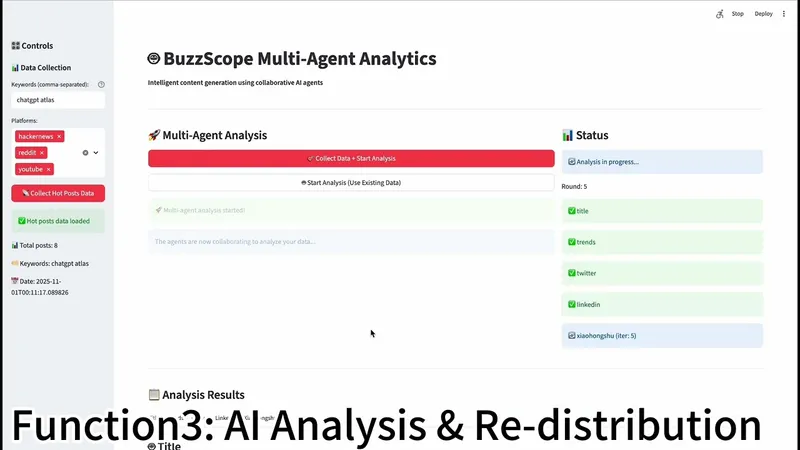
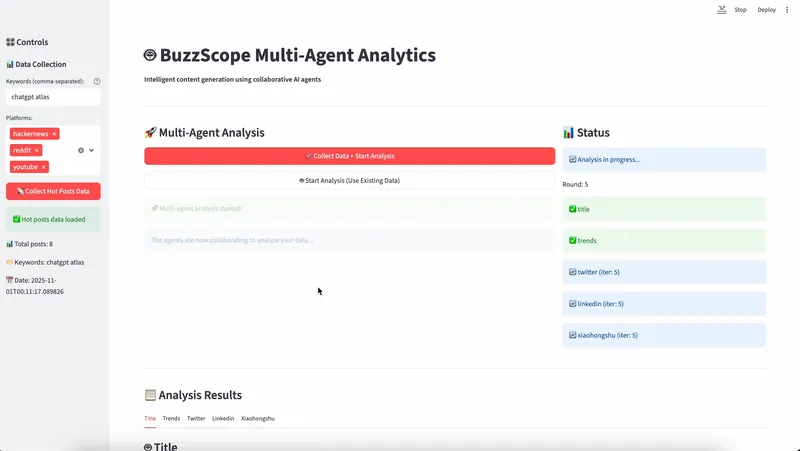
Update project screenshots and email address
- Replace BuzzScope screenshot with actual app UI from repo
- Replace buzzscope-historical with live Streamlit app screenshot
- Update email to bihanchen1123@gmail.com

diff --git a/src/constants.ts b/src/constants.ts
@@ -45,7 +45,7 @@ export const SOCIALS: Social[] = [
   },
   {
     name: "Mail",
-    href: "mailto:chenjudy@example.com",
+    href: "mailto:bihanchen1123@gmail.com",
     linkTitle: `Send an email to ${SITE.author}`,
     icon: IconMail,
   },
